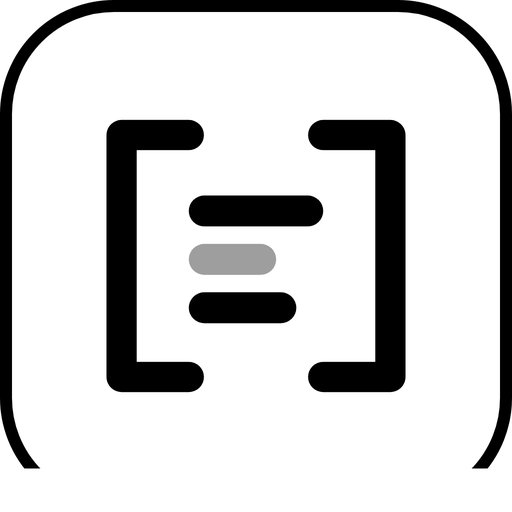
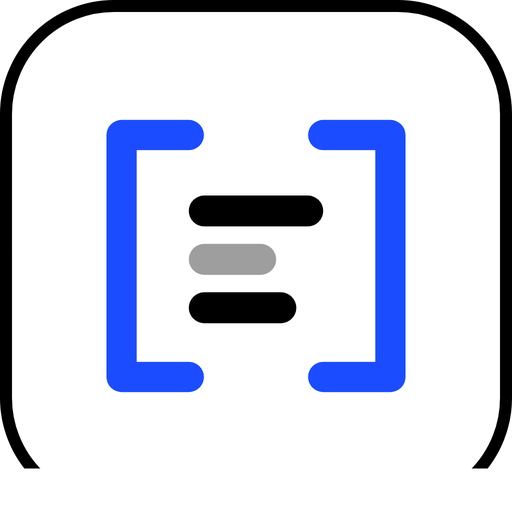
Add blue accent to the mark, reversing the monochrome identity
Adrian's call: the identity is now two colours, not one.

The two BRACKETS become #1B4DFF; the rows stay black (white on the
inverse cuts). That split is what survives 16px — a single blue row
disappears at small sizes, and a fully blue mark loses the contrast
between the brackets and the rows. All geometry, coordinates and stroke
widths are unchanged; only the bracket stroke colour moves.

BLUE sits next to INK and PAPER as a named constant, and mark_body now
takes bracket and row colours separately, so the accent is changed in one
place.

Also corrects the docs, which is the part that would otherwise bite:
brand.json and README.md both stated the identity was monochrome and that
no accent could be introduced. Michael's Claude reads those files and
would have followed them. The palette, the rules array and the on-dark
usage note are updated, and a grep for "monochrome" and "accent" across
brand.json, README.md and the build scripts now comes back clean.

Verified by rendering a fresh proof sheet and looking at it: brackets are
blue, rows are black, the wordmark still reads "ledger", the inverse cuts
read correctly on black, and 16px and 32px stay legible.

Claude-Session: https://claude.ai/code/session_01EXwgLjM4HtcwZohmbY4Xk2

Changed region(s): [[0.5938, 0.2188, 0.8125, 0.7812], [0.1875, 0.2188, 0.4062, 0.7812]]

diff --git a/brand/tools/build-brand.py b/brand/tools/build-brand.py
@@ -26,8 +26,13 @@ from pathlib import Path
 BRAND = Path(__file__).resolve().parents[1]
 LOGO, ICONS, SOCIAL = BRAND / "logo", BRAND / "icons", BRAND / "social"
 
-# --- palette. Monochrome by design; there is no accent colour. ---------------
+# --- palette. Two colours: black and blue, on white. -------------------------
+# BLUE is the accent and is used for the BRACKETS ONLY — the rows stay black
+# (white on the inverse cuts). This split is what survives 16px: a single blue
+# row disappears at small sizes, and a fully blue mark loses the contrast
+# between the brackets and the rows.
 INK = "#000000"
+BLUE = "#1B4DFF"
 PAPER = "#FFFFFF"
 
 # --- the mark ----------------------------------------------------------------
@@ -73,11 +78,18 @@ def num(v) -> str:
     return s if s else "0"
 
 
-def mark_body(fg: str, small: bool = False, animated: bool = False, indent: str = "  ") -> str:
+def mark_body(
+    bracket: str,
+    row: str,
+    small: bool = False,
+    animated: bool = False,
+    indent: str = "  ",
+) -> str:
+    """Brackets and rows are coloured independently — brackets carry the accent."""
     bl = ' class="bl"' if animated else ""
     br = ' class="br"' if animated else ""
     stroke = (
-        f'fill="none" stroke="{fg}" stroke-width="{STROKE_W}" '
+        f'fill="none" stroke="{bracket}" stroke-width="{STROKE_W}" '
         'stroke-linecap="round" stroke-linejoin="round"'
     )
     out = [
@@ -90,7 +102,7 @@ def mark_body(fg: str, small: bool = False, animated: bool = False, indent: str 
         out.append(
             f'{indent}<rect{cls} x="{num(r["x"])}" y="{num(r["y"])}" '
             f'width="{num(r["w"])}" height="{num(r["h"])}" rx="{num(r["rx"])}" '
-            f'fill="{fg}"{op}/>'
+            f'fill="{row}"{op}/>'
         )
     return "\n".join(out)
 
@@ -108,18 +120,18 @@ def style_block() -> str:
     return f"  <style>\n{ANIM_CSS}\n  </style>"
 
 
-def svg_mark(fg: str, *, small=False, animated=False, bg: str | None = None) -> str:
+def svg_mark(bracket: str, row: str, *, small=False, animated=False, bg: str | None = None) -> str:
     parts = [svg_open(64, 64, "0 0 64 64", "Ledger", animated=animated)]
     if animated:
         parts.append(style_block())
     if bg:
         parts.append(f'  <rect width="64" height="64" fill="{bg}"/>')
-    parts.append(mark_body(fg, small=small, animated=animated))
+    parts.append(mark_body(bracket, row, small=small, animated=animated))
     parts.append("</svg>\n")
     return "\n".join(parts)
 
 
-def svg_favicon(fg: str, bg: str, *, bordered: bool) -> str:
+def svg_favicon(bracket: str, row: str, bg: str, *, bordered: bool) -> str:
     """Small-size cut on a solid tile."""
     parts = [svg_open(64, 64, "0 0 64 64", "Ledger")]
     if bordered:
@@ -130,19 +142,19 @@ def svg_favicon(fg: str, bg: str, *, bordered: bool) -> str:
         )
     else:
         parts.append(f'  <rect width="64" height="64" rx="14" fill="{bg}"/>')
-    parts.append(mark_body(fg, small=True))
+    parts.append(mark_body(bracket, row, small=True))
     parts.append("</svg>\n")
     return "\n".join(parts)
 
 
-def svg_icon_tile(fg: str, bg: str, *, small: bool) -> str:
+def svg_icon_tile(bracket: str, row: str, bg: str, *, small: bool) -> str:
     """The square app-icon treatment: hairline-bordered tile, mark at 0.84."""
     parts = [
         svg_open(64, 64, "0 0 64 64", "Ledger"),
         f'  <rect x="0.75" y="0.75" width="62.5" height="62.5" rx="13.5" '
         f'fill="{bg}" stroke="{INK}" stroke-width="1.5"/>',
         '  <g transform="translate(32 32) scale(0.84) translate(-32 -32)">',
-        mark_body(fg, small=small, indent="    "),
+        mark_body(bracket, row, small=small, indent="    "),
         "  </g>",
         "</svg>\n",
     ]
@@ -157,7 +169,7 @@ def lockup_geometry() -> tuple[float, float, float]:
     return s, base, tx
 
 
-def svg_lockup(fg: str, *, animated=False, bg: str | None = None) -> str:
+def svg_lockup(bracket: str, row: str, word: str, *, animated=False, bg: str | None = None) -> str:
     wordmark = (LOGO / "wordmark.path").read_text(encoding="utf-8").strip()
     s, base, tx = lockup_geometry()
     parts = [svg_open(300, 80, "0 0 300 80", "Ledger", animated=animated)]
@@ -167,11 +179,11 @@ def svg_lockup(fg: str, *, animated=False, bg: str | None = None) -> str:
         parts.append(f'  <rect width="300" height="80" fill="{bg}"/>')
     parts += [
         '  <g transform="translate(6 12) scale(0.875)">',
-        mark_body(fg, animated=animated, indent="    "),
+        mark_body(bracket, row, animated=animated, indent="    "),
         "  </g>",
         # scale(s, -s) flips the font's y-up coordinates into SVG's y-down.
         f'  <g transform="translate({num(tx)} {num(base)}) scale({num(s)} {num(-s)})">',
-        f'    <path d="{wordmark}" fill="{fg}"/>',
+        f'    <path d="{wordmark}" fill="{word}"/>',
         "  </g>",
         "</svg>\n",
     ]
@@ -269,14 +281,14 @@ def main() -> int:
 
     # --- SVGs (source of truth) ---
     svgs = {
-        "ledger-mark.svg": svg_mark(INK),
-        "ledger-mark-inverse.svg": svg_mark(PAPER),
-        "ledger-mark-animated.svg": svg_mark(INK, animated=True),
-        "ledger-lockup.svg": svg_lockup(INK),
-        "ledger-lockup-inverse.svg": svg_lockup(PAPER),
-        "ledger-lockup-animated.svg": svg_lockup(INK, animated=True),
-        "favicon.svg": svg_favicon(INK, PAPER, bordered=True),
-        "favicon-inverse.svg": svg_favicon(PAPER, INK, bordered=False),
+        "ledger-mark.svg": svg_mark(BLUE, INK),
+        "ledger-mark-inverse.svg": svg_mark(BLUE, PAPER),
+        "ledger-mark-animated.svg": svg_mark(BLUE, INK, animated=True),
+        "ledger-lockup.svg": svg_lockup(BLUE, INK, INK),
+        "ledger-lockup-inverse.svg": svg_lockup(BLUE, PAPER, PAPER),
+        "ledger-lockup-animated.svg": svg_lockup(BLUE, INK, INK, animated=True),
+        "favicon.svg": svg_favicon(BLUE, INK, PAPER, bordered=True),
+        "favicon-inverse.svg": svg_favicon(BLUE, PAPER, INK, bordered=False),
     }
     for name, content in svgs.items():
         (LOGO / name).write_text(content, encoding="utf-8")
@@ -303,8 +315,8 @@ def main() -> int:
         return 0
 
     print(f"PNG  chromium: {chrome}")
-    tile_big = svg_icon_tile(INK, PAPER, small=False)
-    tile_small = svg_icon_tile(INK, PAPER, small=True)
+    tile_big = svg_icon_tile(BLUE, INK, PAPER, small=False)
+    tile_small = svg_icon_tile(BLUE, INK, PAPER, small=True)
 
     with tempfile.TemporaryDirectory() as td:
         tmp = Path(td)

diff --git a/brand/README.md b/brand/README.md
@@ -5,8 +5,9 @@
 **Brackets closing on three stock rows.** The brackets bound and verify; the rows
 are what was counted.
 
-Strictly monochrome: black `#000000` on white `#FFFFFF`. **There is no accent
-colour, and none may be introduced.**
+Two colours: black `#000000` and blue `#1B4DFF` on white `#FFFFFF`.
+**Blue is the accent and is used for the brackets only** — the rows stay black
+(white on the inverse cuts). Don't introduce a third colour.
 
 If you are an agent working on this repo, start here and with
 [`brand.json`](brand.json) — everything you need is in those two files.
@@ -66,7 +67,10 @@ The animated mark as a scanning / loading state:
 
 ## Rules
 
-- **Monochrome only.** Black on white. Never add an accent colour.
+- **Two colours only.** Black `#000000` and blue `#1B4DFF` on white, or the
+  inverse files on black. Never add a third colour.
+- **Blue is for the brackets only.** Never recolour the rows or the wordmark
+  blue, and never render the brackets in anything but `#1B4DFF`.
 - **Never distort.** No stretching, skewing, or rotating — scale proportionally.
 - **Never restyle.** No gradients, shadows, glows, or outlines. The 38% opacity
   on the middle row is part of the mark, not a styling choice.
